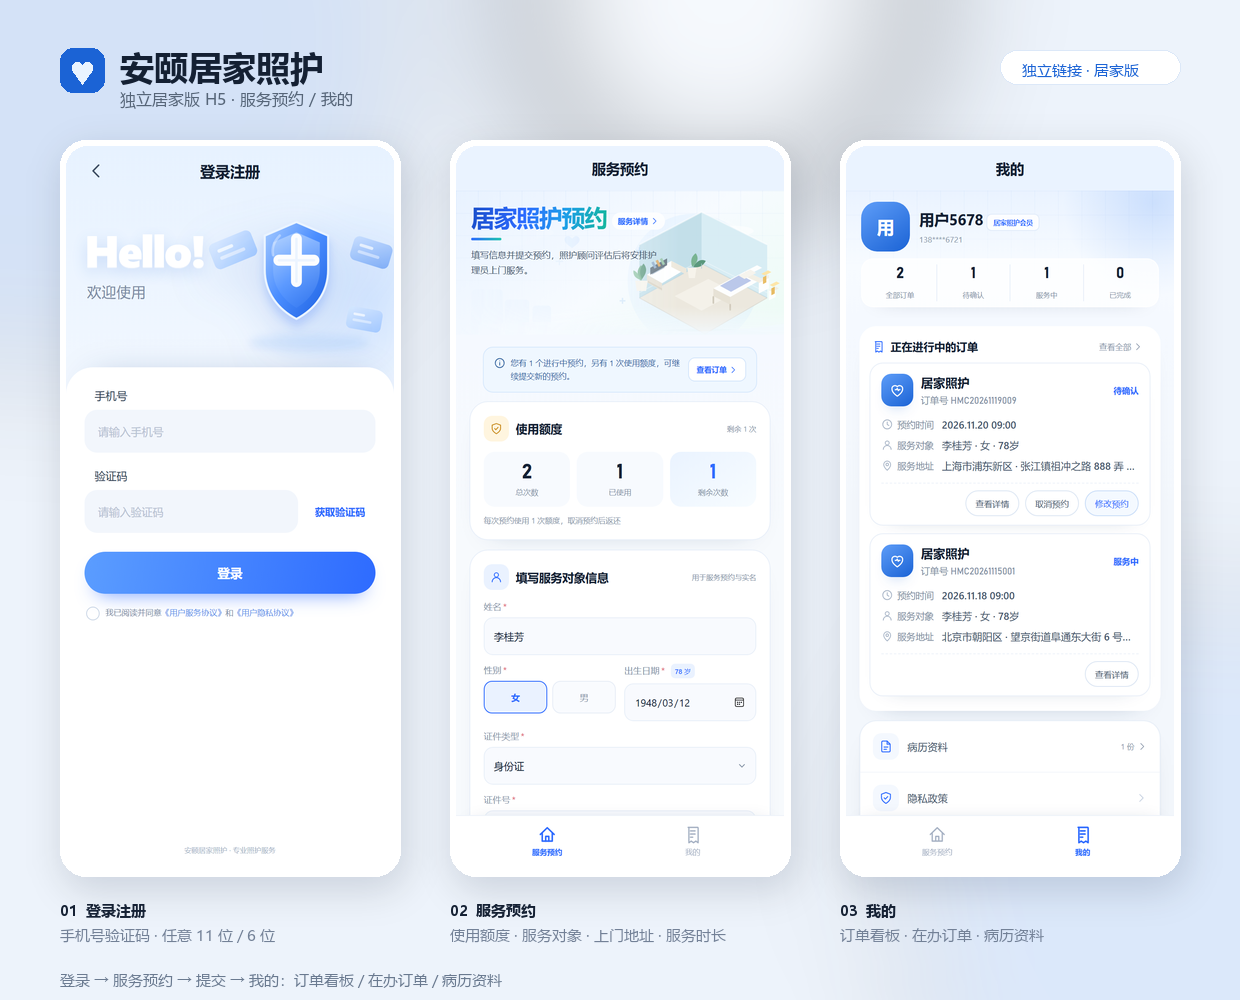
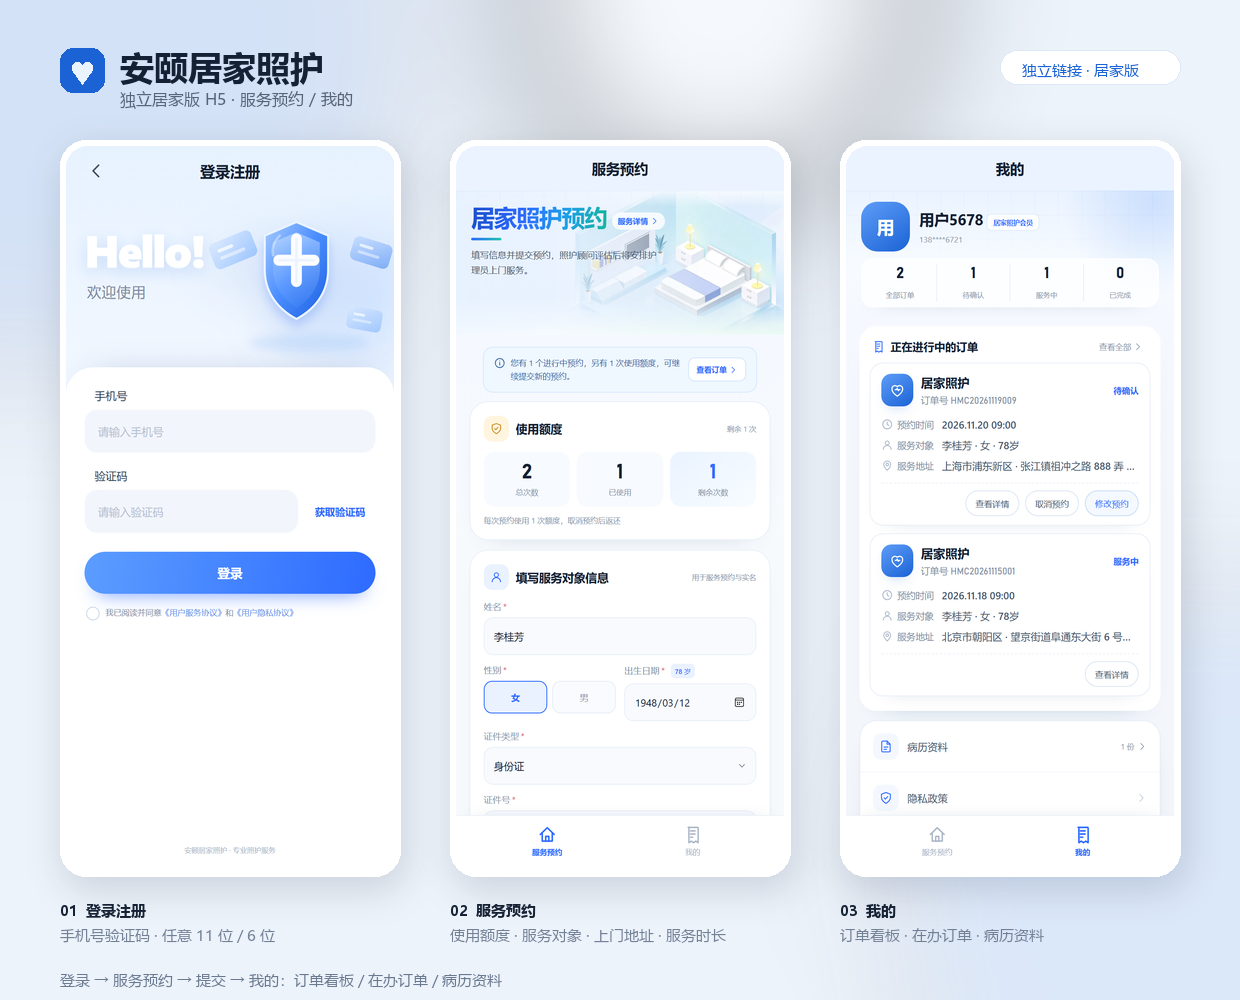
feat: home care H5 initial release

Changed region(s): [[0.4597, 0.186, 0.6435, 0.341]]

diff --git a/app.js b/app.js
@@ -527,80 +527,7 @@
           <p>${isEditing ? '修改后预约将重新进入待确认状态。' : '填写信息并提交预约，照护顾问评估后将安排护理员<span style="white-space:nowrap">上门服务。</span>'}</p>
         </div>
       </div>
-      <div class="book-hero__scene home-scene" aria-hidden="true">
-        <svg viewBox="0 0 390 150" preserveAspectRatio="xMidYMax slice">
-          <defs>
-            <radialGradient id="homeGlow" cx=".5" cy=".5" r=".5"><stop offset="0" stop-color="#FFFFFF" stop-opacity=".85"/><stop offset="1" stop-color="#FFFFFF" stop-opacity="0"/></radialGradient>
-            <linearGradient id="homeWall" x1="0" y1="0" x2="0" y2="1"><stop offset="0" stop-color="#FFFFFF" stop-opacity=".86"/><stop offset="1" stop-color="#DCEFFF" stop-opacity=".6"/></linearGradient>
-            <linearGradient id="homeSide" x1="0" y1="0" x2="1" y2="1"><stop offset="0" stop-color="#D8EEFF" stop-opacity=".62"/><stop offset="1" stop-color="#A6CFF4" stop-opacity=".4"/></linearGradient>
-            <linearGradient id="homeDoor" x1="0" y1="0" x2="0" y2="1"><stop offset="0" stop-color="#80B8FF"/><stop offset="1" stop-color="#2E6BFF"/></linearGradient>
-            <linearGradient id="homeRoof" x1="0" y1="0" x2="0" y2="1"><stop offset="0" stop-color="#F6FCFF" stop-opacity=".97"/><stop offset="1" stop-color="#8FC4F2" stop-opacity=".86"/></linearGradient>
-            <filter id="houseShadow" x="-30%" y="-30%" width="160%" height="170%"><feDropShadow dx="0" dy="9" stdDeviation="9" flood-color="#2D6DB8" flood-opacity=".18"/></filter>
-            <linearGradient id="homeFade" x1="0" y1="0" x2="0" y2="1"><stop offset="0" stop-color="#F5FAFF" stop-opacity="0"/><stop offset="1" stop-color="#F5FAFF"/></linearGradient>
-          </defs>
-          <circle cx="300" cy="72" r="68" fill="url(#homeGlow)"/>
-          <circle cx="282" cy="82" r="78" fill="#BFDDFF" opacity=".22"/>
-          <g fill="#FFFFFF" opacity=".55"><ellipse cx="68" cy="32" rx="30" ry="9"/><ellipse cx="96" cy="26" rx="20" ry="6"/><ellipse cx="330" cy="24" rx="24" ry="6"/></g>
-          <g fill="#CFE5FF" opacity=".8"><rect x="18" y="92" width="38" height="54" rx="5"/><rect x="58" y="104" width="29" height="42" rx="4"/><rect x="91" y="111" width="22" height="35" rx="4"/></g>
-          <g transform="translate(218 24)">
-            <ellipse cx="76" cy="122" rx="80" ry="8" fill="#7FAFCB" opacity=".12"/>
-            <path d="M0 78 L74 38 L152 78 L78 120 Z" fill="#ECE7DC"/>
-            <path d="M0 78 L78 120 L152 78" fill="none" stroke="#D4D0C7" stroke-width="1" opacity=".7"/>
-            <path d="M0 78 L0 16 L74 -22 L74 38 Z" fill="#BFDDE8"/>
-            <path d="M74 -22 L152 16 L152 78 L74 38 Z" fill="#D6ECF4"/>
-            <path d="M0 16 L74 -22 L152 16" fill="none" stroke="#FFFFFF" stroke-width="1.8" opacity=".55"/>
-            <path d="M0 72 L74 34 L152 72" fill="none" stroke="#FFFFFF" stroke-width="1" opacity=".4"/>
-            <path d="M0 78 L74 38 L152 78" fill="none" stroke="#9EC0CE" stroke-width="1" opacity=".35"/>
-            <path d="M42 76 L82 56 L114 72 L74 93 Z" fill="#F8F4EB" opacity=".8"/>
-            <g>
-              <path d="M9 51 L38 35 L56 44 L27 61 Z" fill="#FFFFFF"/>
-              <path d="M9 51 L27 61 L27 70 L9 60 Z" fill="#E6DFD2"/>
-              <path d="M38 35 L38 42 L56 51 L56 44 Z" fill="#EDE7DA"/>
-              <path d="M15 48 L30 40 L30 43 L15 51 Z" fill="#A7B9CA"/>
-              <path d="M13 43 L33 32 L33 40 L13 51 Z" fill="#4E5D6A" opacity=".9"/>
-              <rect x="16" y="36" width="3" height="8" fill="#8BA9C9" transform="rotate(-27 17 40)"/>
-              <rect x="21" y="34" width="3" height="8" fill="#D8A55E" transform="rotate(-27 22 38)"/>
-              <rect x="26" y="32" width="3" height="8" fill="#91C2A4" transform="rotate(-27 27 36)"/>
-              <path d="M10 58 L27 67 L27 69 L10 60 Z" fill="#D5CCBC" opacity=".8"/>
-            </g>
-            <g>
-              <path d="M88 67 L126 47 L146 56 L108 77 Z" fill="#FFFFFF"/>
-              <path d="M88 67 L108 77 L108 86 L88 76 Z" fill="#E7E0D3"/>
-              <path d="M126 47 L146 56 L146 62 L126 53 Z" fill="#F3EEE3"/>
-              <path d="M96 64 L120 51 L133 58 L109 71 Z" fill="#B7C4E9"/>
-              <path d="M126 47 L140 40 L146 43 L132 50 Z" fill="#FFFFFF"/>
-              <path d="M118 52 L132 45 L139 49 L125 56 Z" fill="#F7F4ED"/>
-              <path d="M142 57 L154 51 L154 67 L142 73 Z" fill="#FFFFFF"/>
-              <path d="M142 57 L154 51 L154 55 L142 61 Z" fill="#F4EFE5"/>
-              <path d="M147 54 L151 52 L151 60 L147 62 Z" fill="#E9B95B"/>
-              <path d="M145 50 L153 46 L157 48 L149 52 Z" fill="#FFE3A0"/>
-              <path d="M88 77 L88 84 M108 86 L108 92" stroke="#CFC7B8" stroke-width="2" stroke-linecap="round"/>
-            </g>
-            <g>
-              <path d="M154 69 L162 65 L162 77 L154 81 Z" fill="#FFFFFF"/>
-              <path d="M154 69 L162 65 L166 67 L158 71 Z" fill="#F2EDE2"/>
-              <path d="M157 67 L161 65 L161 73 L157 75 Z" fill="#E7B75A"/>
-              <path d="M155 63 L163 59 L167 61 L159 65 Z" fill="#FFE5A4"/>
-            </g>
-            <g>
-              <path d="M2 58 Q-6 48 2 40 Q10 48 2 58Z" fill="#6FAE8A"/>
-              <path d="M3 56 Q-2 46 5 38 Q12 46 3 56Z" fill="#4E9073"/>
-              <path d="M1 57 Q-8 54 -7 46 Q-1 48 1 57Z" fill="#84BE9B"/>
-              <path d="M-5 58 H10 L8 70 H-3 Z" fill="#F7F3EA"/>
-            </g>
-            <g>
-              <path d="M63 42 Q59 32 67 26 Q73 34 63 42Z" fill="#6FAE8A"/>
-              <path d="M64 42 Q71 31 79 35 Q74 44 64 42Z" fill="#4E9073"/>
-              <path d="M57 43 H68 L66 55 H59 Z" fill="#F7F3EA"/>
-            </g>
-            <path d="M74 38 L74 44" stroke="#A8C7D5" stroke-width="1" opacity=".7"/>
-          </g>
-          <rect x="0" y="112" width="390" height="38" fill="url(#homeFade)"/>
-          <path d="M0 137 Q92 124 194 136 T390 132 V150 H0Z" fill="#F2F9FF" opacity=".65"/>
-          <g fill="#8FC2FF" opacity=".45"><path d="M138 44c-5-4-9-6-9-10 0-2 2-4 4-4 2 0 3 1 5 3 2-2 3-3 5-3 2 0 4 2 4 4 0 4-4 6-9 10z"/></g>
-          <g stroke="#9CC8F5" stroke-width="1.5" opacity=".5"><path d="M123 55v9M118.5 59.5h9"/><path d="M218 43v8M214 47h8"/><path d="M198 102v7M194.5 105.5h7"/></g>
-        </svg>
-      </div>
+      <div class="book-hero__photo" aria-hidden="true"><img src="assets/home-room.jpg" alt=""></div>
     </header>
     <form id="request-form" class="req-body" novalidate>
       ${activeOrders.length && !isEditing ? `<div class="banner banner--blue"><span class="banner__text">${icon('info')} 您有 ${activeOrders.length} 个进行中预约，另有 ${available.length} 次使用额度，可继续提交新的预约。</span><button class="banner__action" type="button" data-act="view-orders">查看订单${icon('chevR')}</button></div>` : ''}

diff --git a/styles.css b/styles.css
@@ -608,7 +608,11 @@ textarea.field__box { height: auto; min-height: 74px; padding: 10px 11px; line-h
 .agree-block { margin: 2px 0 0; padding: 12px 14px; background: #fff; border: 1px solid #E9EFF8; border-radius: 16px; box-shadow: var(--shadow-sm); }
 
 /* ---------------- medical-health visual polish ---------------- */
-.book-hero { padding-bottom: 14px; background: linear-gradient(145deg, #E8F2FF 0%, #F7FBFF 54%, #ECFBF4 100%); }
+.book-hero { position: relative; padding-bottom: 14px; overflow: hidden; background: linear-gradient(145deg, #E8F2FF 0%, #F7FBFF 54%, #ECFBF4 100%); }
+.book-hero__photo { position: absolute; inset: 0; z-index: 0; overflow: hidden; -webkit-mask-image: linear-gradient(to bottom, transparent 0%, #000 11%, #000 76%, transparent 100%); mask-image: linear-gradient(to bottom, transparent 0%, #000 11%, #000 76%, transparent 100%); }
+.book-hero__photo img { width: 100%; height: 100%; object-fit: cover; object-position: center 54%; opacity: .95; }
+.book-hero__photo::after { content: ""; position: absolute; inset: 0; background: linear-gradient(90deg, rgba(232,242,255,.98) 0%, rgba(232,242,255,.9) 30%, rgba(232,242,255,.42) 54%, transparent 76%); }
+.book-hero > *:not(.book-hero__photo) { position: relative; z-index: 2; }
 .book-hero__copy { position: relative; z-index: 2; flex: 1; min-width: 0; }
 .book-hero__art { position: relative; flex: 0 0 104px; height: 102px; margin: -4px -4px 0 0; }
 .book-hero__glow { position: absolute; inset: 10px 4px 2px 6px; border-radius: 50%; background: radial-gradient(circle, rgba(66, 139, 255, .18), transparent 68%); }
